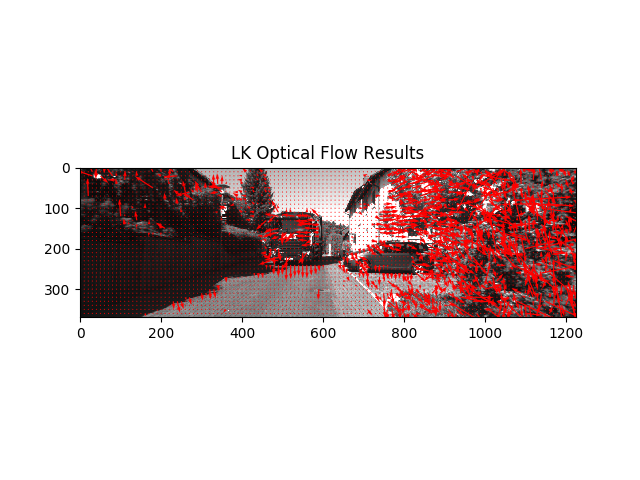
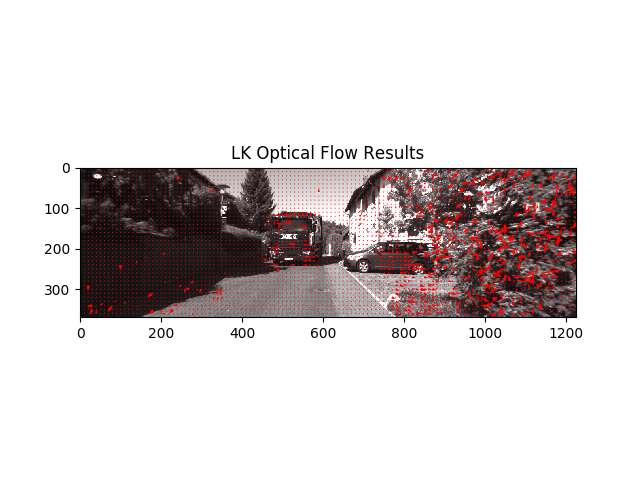
fliping of optical flow

diff --git a/utils/opticalflowplot.py b/utils/opticalflowplot.py
@@ -12,8 +12,8 @@ def plot_opticalflow(opticalflow, sequence, step=10):
         image = cv2.resize(image, (0, 0), fx=1./step, fy=1./step)
         flow = convert_flow_data(image)
         valid = np.transpose(flow[:, :, 2] == 1)
-        U = np.transpose(flow[:, :, 0])
-        V = np.transpose(flow[:, :, 1])
+        U = np.flip(np.transpose(flow[:, :, 0]), axis=0)
+        V = np.flip(np.transpose(flow[:, :, 1]), axis=0)
 
         w, h = flow.shape[:2]
         U = np.reshape(U[valid], (h, w))
@@ -26,7 +26,7 @@ def plot_opticalflow(opticalflow, sequence, step=10):
         y = np.reshape(y[valid], (h, w))
         plt.imshow(sequence[ind])
 
-        plt.quiver(x, y, U, -V, scale=maxOF*7, alpha=1, color='r')
+        plt.quiver(x, y, U, V, scale=maxOF*20, alpha=1, color='r')
         plt.title('LK Optical Flow Results')
         plt.savefig('OpticalFlow_image' + str(ind) + '.png')
         plt.show()
